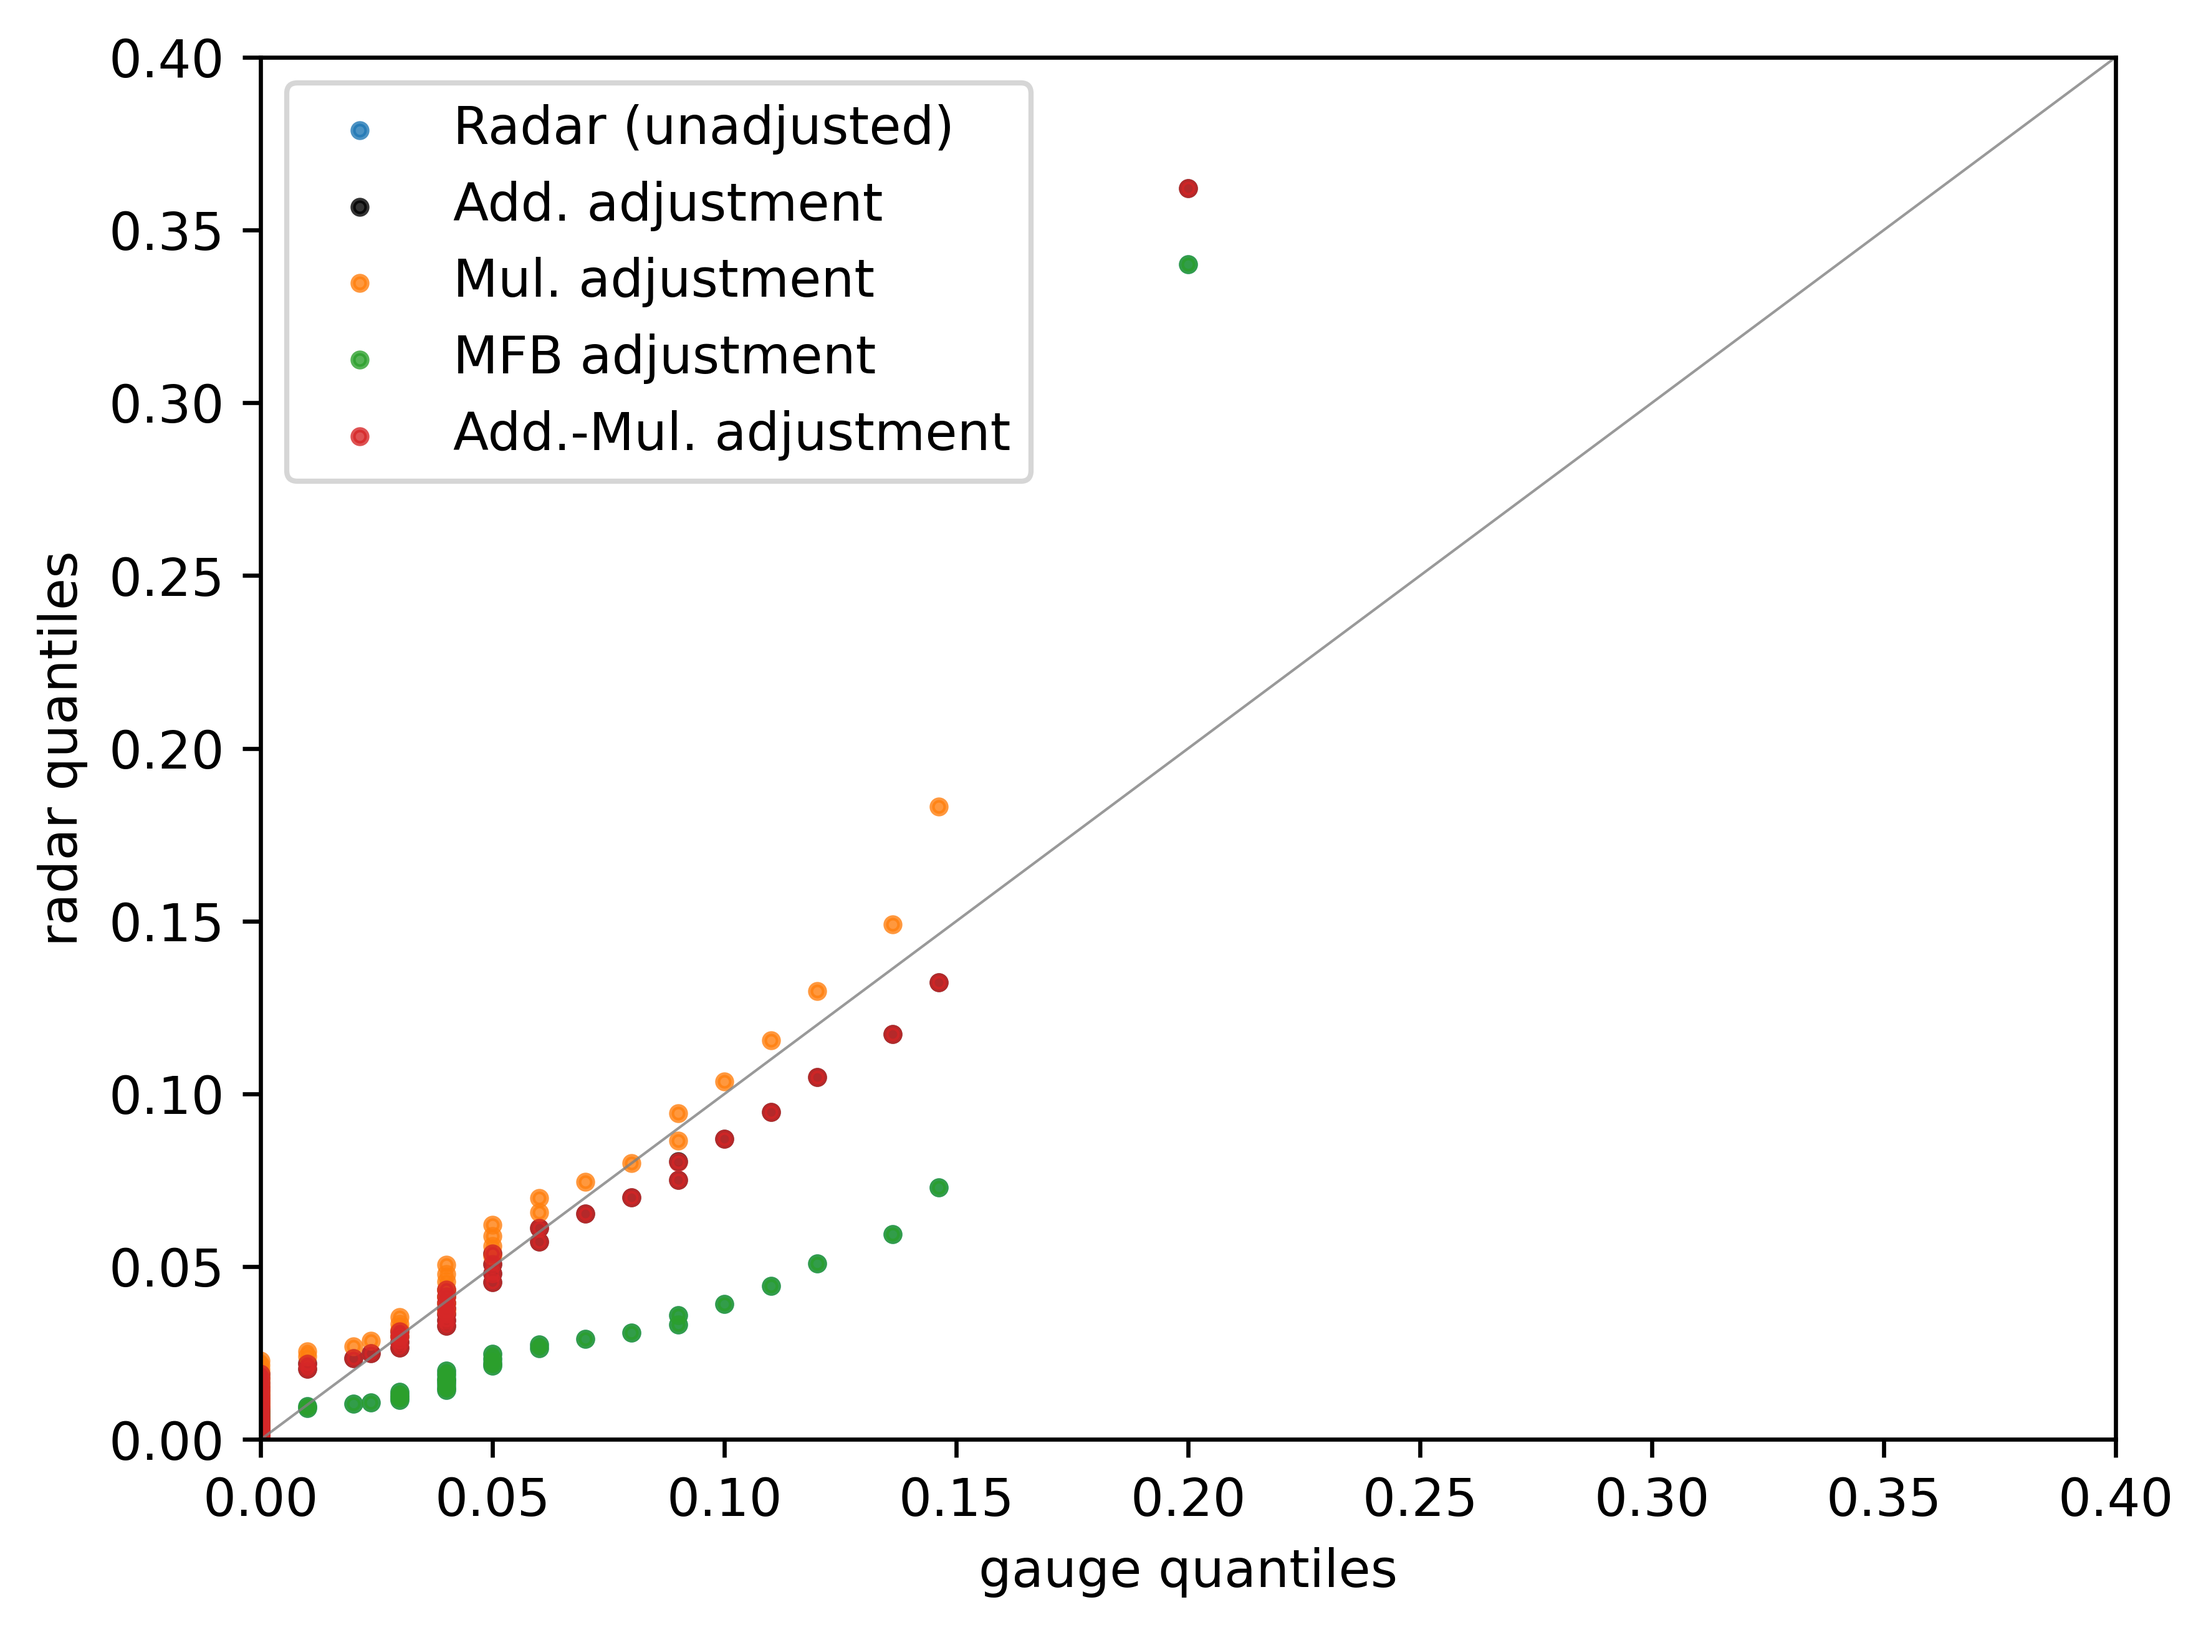
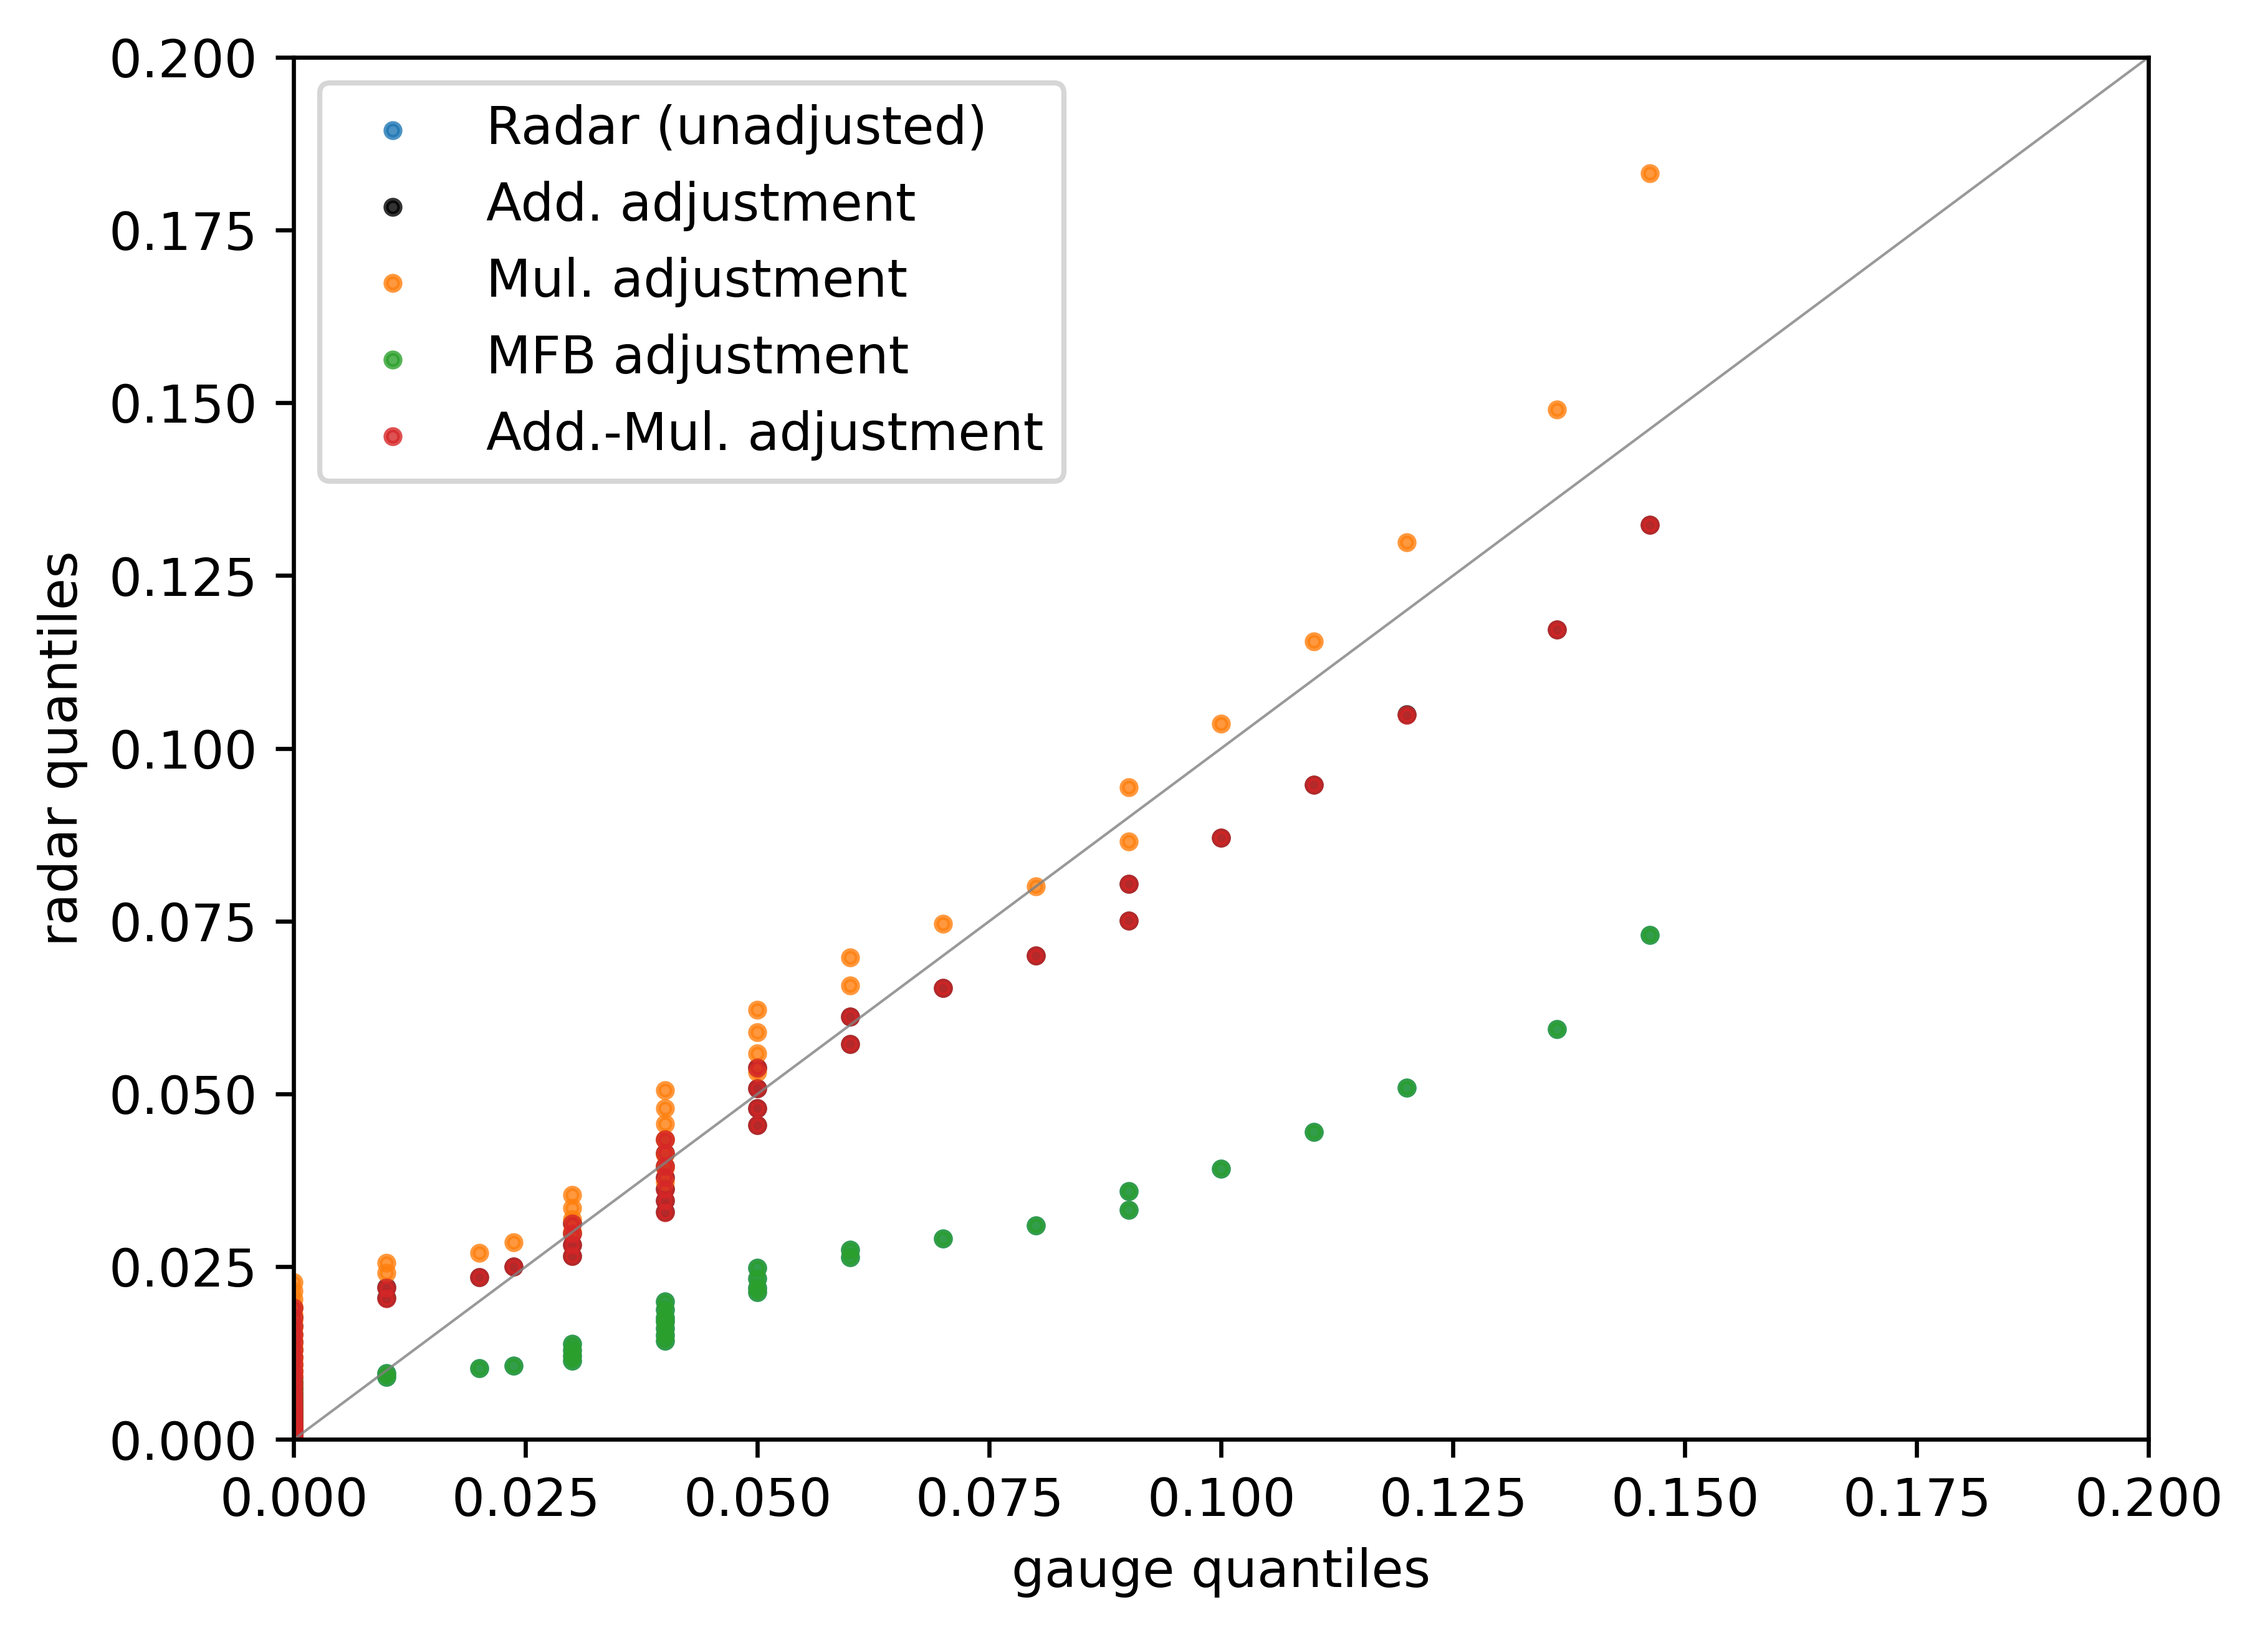
Change axex lim in QQ 5min plot.

diff --git a/code/PlotComposite.py b/code/PlotComposite.py
@@ -109,18 +109,19 @@ obs_coords = zip(gaugedata["easting"], gaugedata["northing"]) # 2D-array
 obs_coords = np.array([list(elem) for elem in obs_coords])
 
 # Apply adjustment methods.
-adjuster = wrl.adjust.AdjustAdd(obs_coords, radar_coords, 
-                                nnear_raws=1, stat="best", mingages=5, minval=0)
-adjusted_add = adjuster(obs_1d, radar_1d)
 if minutes == 60:
     minval = 0.1
 if minutes == 5:
     minval = 0.01
+
+adjuster = wrl.adjust.AdjustAdd(obs_coords, radar_coords, 
+                                nnear_raws=1, stat="best", mingages=5, minval=0)
+adjusted_add = adjuster(obs_1d, radar_1d)
 adjuster = wrl.adjust.AdjustMultiply(obs_coords, radar_coords, 
-                                     nnear_raws=1, stat="best", mingages=5, minval=minval)
+                                     nnear_raws=1, stat="best", mingages=5, minval=0.01)
 adjusted_mul = adjuster(obs_1d, radar_1d) 
 adjuster = wrl.adjust.AdjustMFB(obs_coords, radar_coords, 
-                                nnear_raws=1, stat="best", mingages=5)
+                                nnear_raws=1, stat="best", mingages=5, minval=0.01)
 adjusted_mulcon = adjuster(obs_1d, radar_1d)
 adjuster = wrl.adjust.AdjustMixed(obs_coords, radar_coords, 
                                   nnear_raws=1, stat="best", mingages=5)
@@ -223,8 +224,8 @@ plt.scatter(q_gau, q_mul, label="Mul. adjustment", s=7, marker='o', alpha=0.8)
 plt.scatter(q_gau, q_mulcon, label="MFB adjustment", s=7, marker='o', alpha=0.8)
 plt.scatter(q_gau, q_mix, label="Add.-Mul. adjustment", s=7, marker='o', alpha=0.8)
 if minutes == 5:
-    plt.xlim([0,0.4])
-    plt.ylim([0,0.4])
+    plt.xlim([0,0.2])
+    plt.ylim([0,0.2])
 if minutes == 60:    
     plt.xlim([0,1.5])
     plt.ylim([0,1.5])
